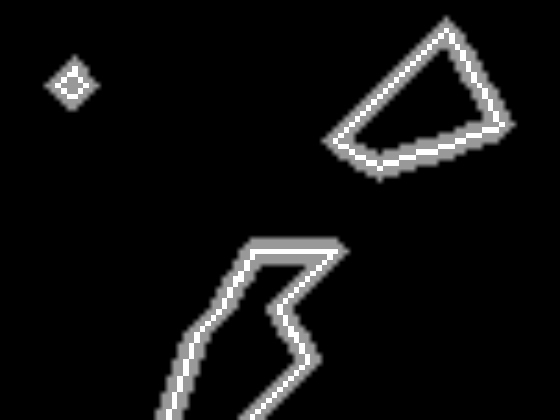
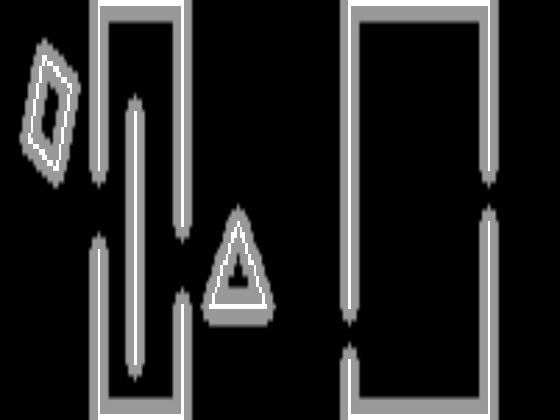
sjednocení proměnných do student_work_space.m

diff --git a/algorithms/particle_filter/init_pf_around_pose.m b/algorithms/particle_filter/init_pf_around_pose.m
@@ -1,5 +1,5 @@
 function public_vars = init_pf_around_pose(public_vars, pose)
-N = 200;
+N = 1000;
 sigma_x = 0.5;
 sigma_y = 0.5;
 sigma_theta = 5*pi/180;
@@ -9,8 +9,5 @@ public_vars.particles(:,2) = pose(2) + sigma_y * randn(N,1);
 public_vars.particles(:,3) = pose(3) + sigma_theta * randn(N,1);
 public_vars.particles(:,3) = atan2(sin(public_vars.particles(:,3)), cos(public_vars.particles(:,3)));
 public_vars.weights = ones(N, 1) / N;
-
-public_vars.motion_sigma = 0.75;
-public_vars.sensor_sigma = 4;
 
 end

diff --git a/algorithms/student_workspace.m b/algorithms/student_workspace.m
@@ -24,6 +24,10 @@ if read_only_vars.counter == 1
     
     public_vars.gnns_counter = 1;
     public_vars.map_conv_radius = 3;
+    
+    public_vars.motion_sigma = 0.75;
+    public_vars.sensor_sigma = 4;
+
 end
 
 %% --- INIT KF ---

diff --git a/algorithms/particle_filter/init_particle_filter.m b/algorithms/particle_filter/init_particle_filter.m
@@ -11,8 +11,5 @@ public_vars.particles(:, 2) = rand(N,1) * (map_y2 - map_y1) + map_y1;
 public_vars.particles(:, 3) = rand(N,1) * 2*pi;
 public_vars.weights = ones(N, 1) / N;
 
-public_vars.motion_sigma = 0.75;
-public_vars.sensor_sigma = 4;
-
 end
 

diff --git a/algorithms/setup.m b/algorithms/setup.m
@@ -1,6 +1,6 @@
 start_position = [2, 2, 0]; % (x, y, theta)
 
-map_name = 'maps/mixed_1.txt';
+map_name = 'maps/outdoor_2.txt';
 
 % straight line = 1, sine = 2, arc = 3, combined = 4
 public_vars.path_type = 4;